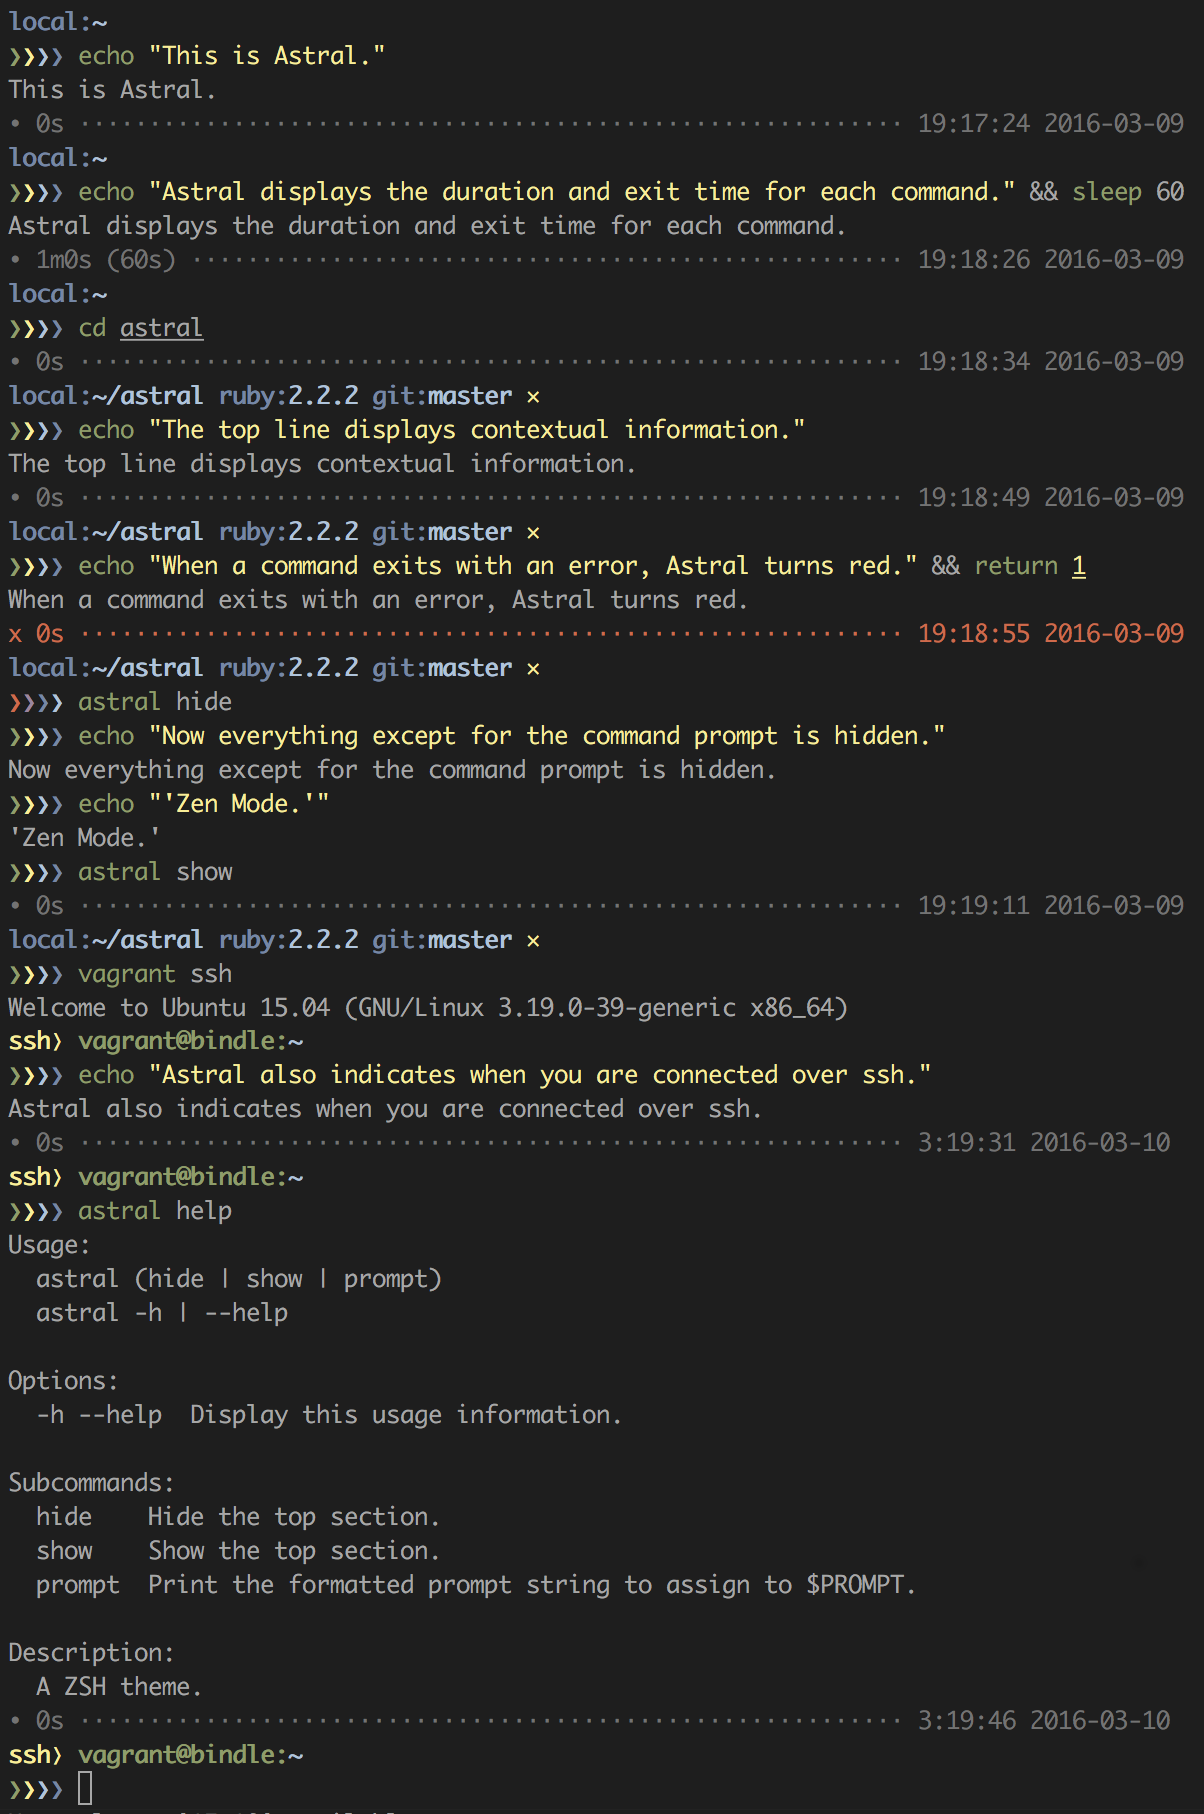
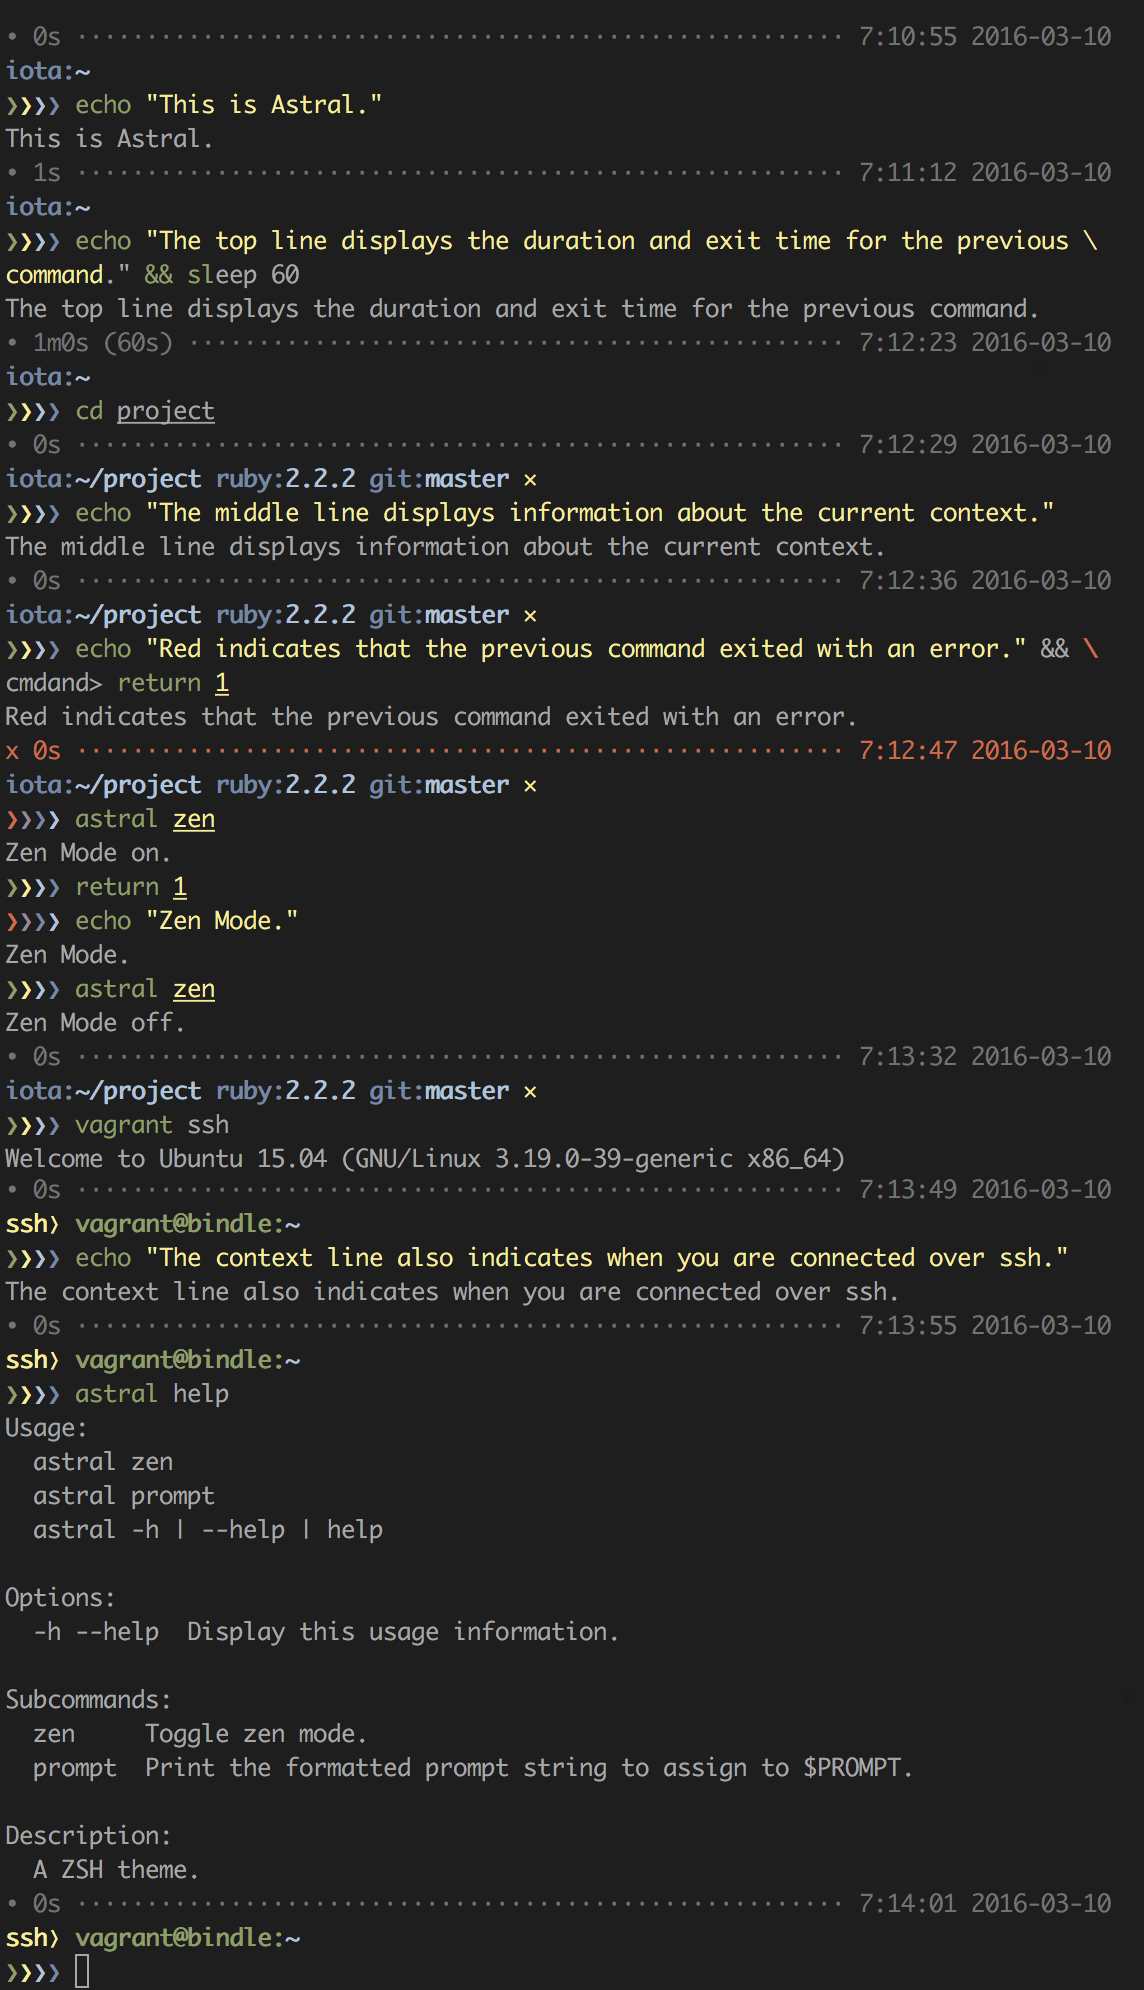
Change terminology to 'Toggle Zen Mode.'

diff --git a/README.md b/README.md
@@ -1,6 +1,6 @@
 # astral
 
-A ZSH Theme.
+A ZSH Theme with Zen Mode.
 
 <p align="center">
   <img src="https://raw.githubusercontent.com/alphabetum/astral/master/astral.png" alt="astral preview" width="800">
